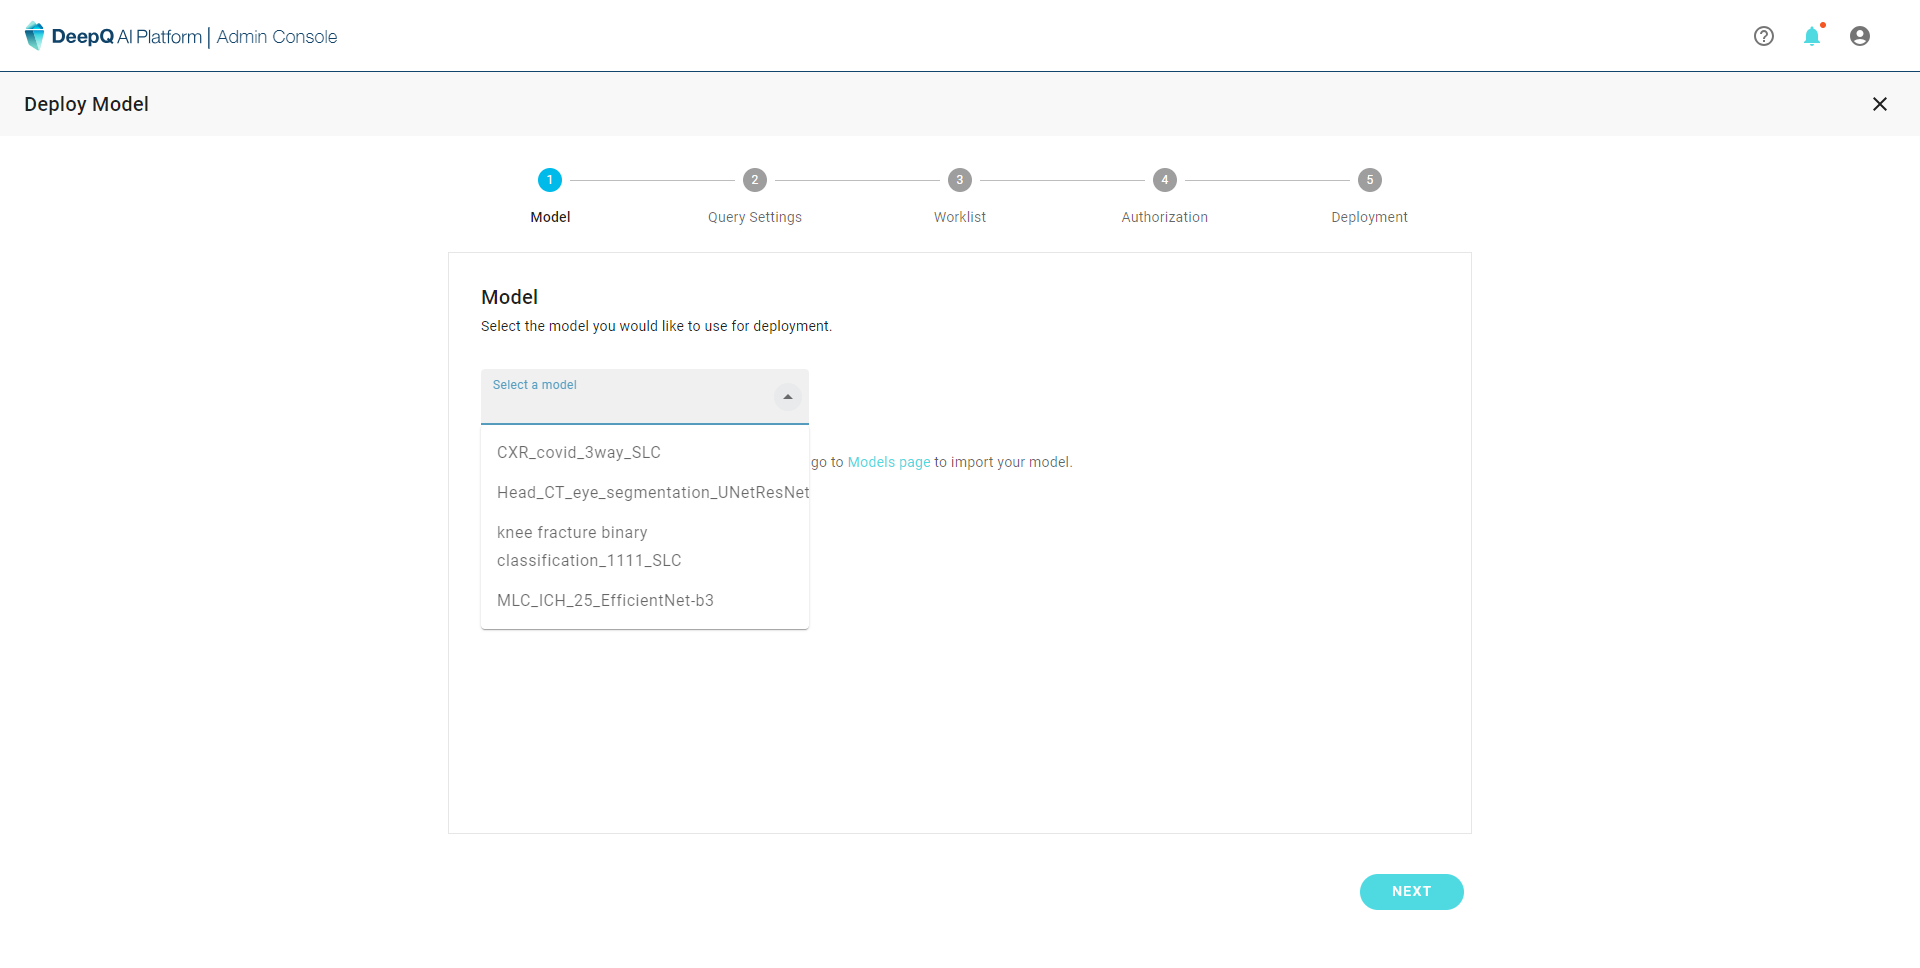
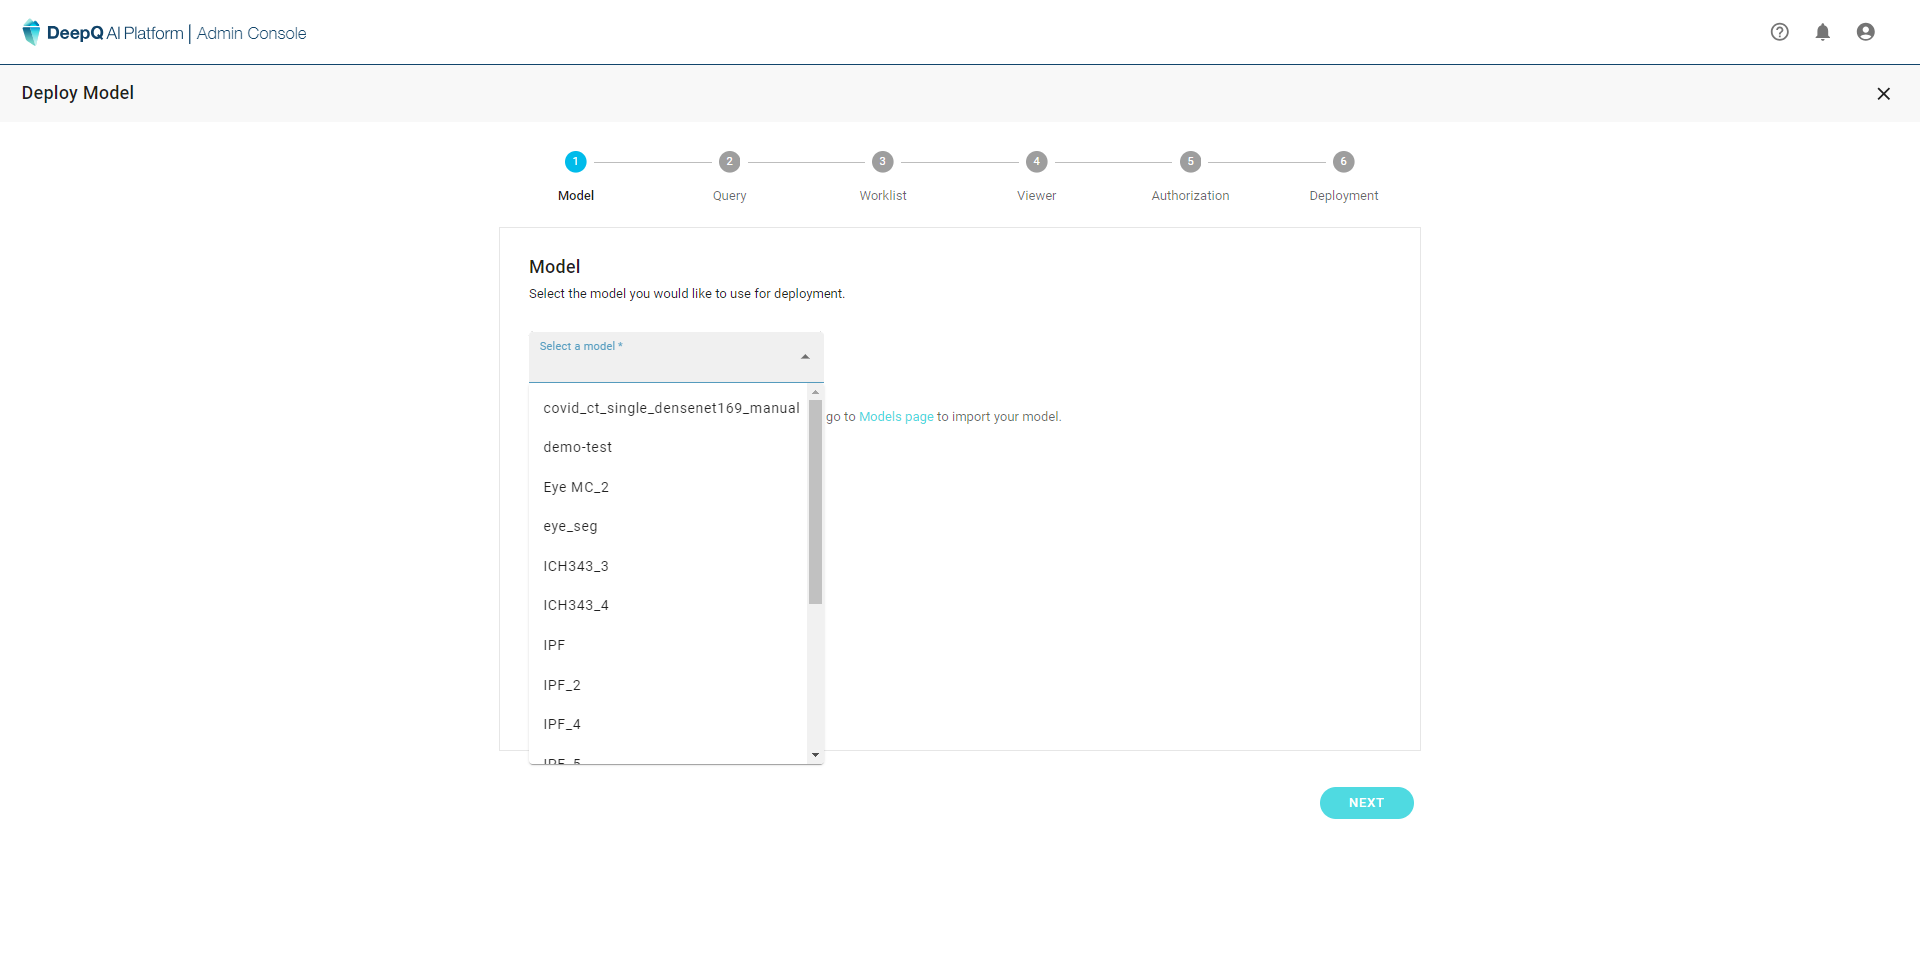
GITBOOK-4: No subject

diff --git a/deployment-management/4.1-create-deployment/3.-set-worklist-items-and-ai-indicator-s-1.md b/deployment-management/4.1-create-deployment/3.-set-worklist-items-and-ai-indicator-s-1.md
@@ -1,19 +1,9 @@
-# 4. Set AI viewer items
+# 4. Set AI viewer
 
-### AI viewer items
+### AI viewer - Inference Calculation
 
 Since each deployment job serves a different purpose, the displayed items are set up independently for each deployment.
 
-<figure><img src="../../.gitbook/assets/Deeploy-adm-4-1-3-1.png" alt=""><figcaption><p>4 preset DICOM tags are provided as a start, users can also modify the items they wish to see on the worklist.</p></figcaption></figure>
+<figure><img src="../../.gitbook/assets/Deeploy-adm-4-1-4-1.png" alt=""><figcaption><p>4 preset DICOM tags are provided as a start, users can also modify the items they wish to see on the worklist.</p></figcaption></figure>
 
-<figure><img src="../../.gitbook/assets/Deeploy-adm-4-1-3-2.png" alt=""><figcaption><p>All possible worklist items can be chosen from the drop down menu, you can also rearrange the order by click and drag.</p></figcaption></figure>
-
-### AI Indicator(s)
-
-AI indicators are visual cues that appears in the AI worklist. It highlights certain image studies based on predefined rules. The color, text and trigger rules are determined during deployment creation. There can be more than one set of rules/triggers for each deployment.
-
-<figure><img src="../../.gitbook/assets/Deeploy-adm-4-1-3-3.png" alt=""><figcaption></figcaption></figure>
-
-<figure><img src="../../.gitbook/assets/Deeploy-adm-4-1-3-4.png" alt=""><figcaption><p>You can set different color, text and rules for indicators. More rules/indicators can be added for your own needs.</p></figcaption></figure>
-
-<figure><img src="../../.gitbook/assets/Deeploy-adm-4-1-3-5.png" alt=""><figcaption><p>You may also determine the text for inference results that does not trigger any indicators</p></figcaption></figure>
+<figure><img src="../../.gitbook/assets/Deeploy-adm-4-1-4-2.png" alt=""><figcaption><p>All possible worklist items can be chosen from the drop down menu, you can also rearrange the order by click and drag.</p></figcaption></figure>

diff --git a/deployment-management/4.1-create-deployment/2.-set-query.md b/deployment-management/4.1-create-deployment/2.-set-query.md
@@ -2,11 +2,11 @@
 
 Each deployment will require query set(s) so that the model will run on the image data it is trained for. A query set is consisted of several DICOM tags, including but not limited to： Modality, Study Description, Series Description & Body Parts Examined...etc.
 
-![](../../.gitbook/assets/Deeploy-adm-4-1-2.png)
+![](../../.gitbook/assets/Deeploy-adm-4-1-2-1.png)
 
-![Other than the 4 DICOM tags listed, additional query items can be added to make the deployment more specific](../../.gitbook/assets/adm-4-1-2-2.png)
+![Other than the 4 DICOM tags listed, additional query items can be added to make the deployment more specific](../../.gitbook/assets/Deeploy-adm-4-1-2-2.png)
 
-![](../../.gitbook/assets/adm-4-1-2-3.png)
+![](../../.gitbook/assets/Deeploy-adm-4-1-2-3.png)
 
 ![](../../.gitbook/assets/adm-4-1-2-4.png)
 

diff --git a/SUMMARY.md b/SUMMARY.md
@@ -9,7 +9,7 @@
     * [1. Select Model](deployment-management/4.1-create-deployment/1.-select-model.md)
     * [2. Set Query rule(s)](deployment-management/4.1-create-deployment/2.-set-query.md)
     * [3. Set Worklist items & AI Indicator(s)](deployment-management/4.1-create-deployment/3.-set-worklist-items-and-ai-indicator-s.md)
-    * [4. Set AI viewer items](deployment-management/4.1-create-deployment/3.-set-worklist-items-and-ai-indicator-s-1.md)
+    * [4. Set AI viewer](deployment-management/4.1-create-deployment/3.-set-worklist-items-and-ai-indicator-s-1.md)
     * [5. Authorization](deployment-management/4.1-create-deployment/3.-authorization.md)
     * [6. Deployment](deployment-management/4.1-create-deployment/4.-deployment.md)
   * [4.2 View/Manage Deployments](deployment-management/4.2-view-manage-deployments/README.md)

diff --git a/deployment-management/4.1-create-deployment/4.-deployment.md b/deployment-management/4.1-create-deployment/4.-deployment.md
@@ -1,7 +1,7 @@
-# 5. Deployment
+# 6. Deployment
 
-Finally, name the deployment and add any description neccesary. If all the settings are correct, click on "**DEPLOY**" to complete the deployment and it will occupy one unit of inferernce resource and show up in the dashboard as "Running"
+Finally, name the deployment and add any description necessary. If all the settings are correct, click on "**DEPLOY**" to complete the deployment and it will occupy one unit of inference resource and show up in the dashboard as "Running"
 
 \*\* When creating a new deployment, the inference resource selection order is available GPU then available CPU.
 
-![Name the deployment and add description](../../.gitbook/assets/Deeploy-adm-4-1-5.png)
+![Name the deployment and add description](../../.gitbook/assets/Deeploy-adm-4-1-6-1.png)

diff --git a/deployment-management/4.1-create-deployment/README.md b/deployment-management/4.1-create-deployment/README.md
@@ -5,10 +5,10 @@ To create a deployment, the administrator will go through a 5-step process:
 1. Select model to be deployed
 2. Set query settings
 3. Set Worklist items & AI Indicators
-4. Set authorization
-5. Confirm & deploy
+4. Set viewer - inference calculation
+5. Set authorization
+6. Confirm & deploy
 
 \*\*The maximum number of deployments is limited by the number of inference hardware (number of GPUs + 1 CPU). if all inference resources are in use, selecting "**DEPLOY MODEL**" will pop out a warning window, informing the administrator to stop a running deployment in order to release a inference resource.
 
 ![Not enough inference resource notice will pop up if all GPU/CPU are in use](../../.gitbook/assets/Deeploy-adm-2-0-2.png)
-

diff --git a/deployment-management/4.1-create-deployment/3.-authorization.md b/deployment-management/4.1-create-deployment/3.-authorization.md
@@ -1,9 +1,9 @@
-# 4. Authorization
+# 5. Authorization
 
 * Enter the user accounts to grant deployment authorization.
 * Authorized deployments will show up in the users "Deeploy-->Authorized models"
-* The authorized user should have a valid Deeploy system account first.  [6. Account Management](../../account-management.md)
+* The authorized user should have a valid Deeploy system account first. [6. Account Management](../../account-management.md)
 
-![](../../.gitbook/assets/Deeploy-adm-4-1-4.png)
+![](../../.gitbook/assets/Deeploy-adm-4-1-5-1.png)
 
 *
